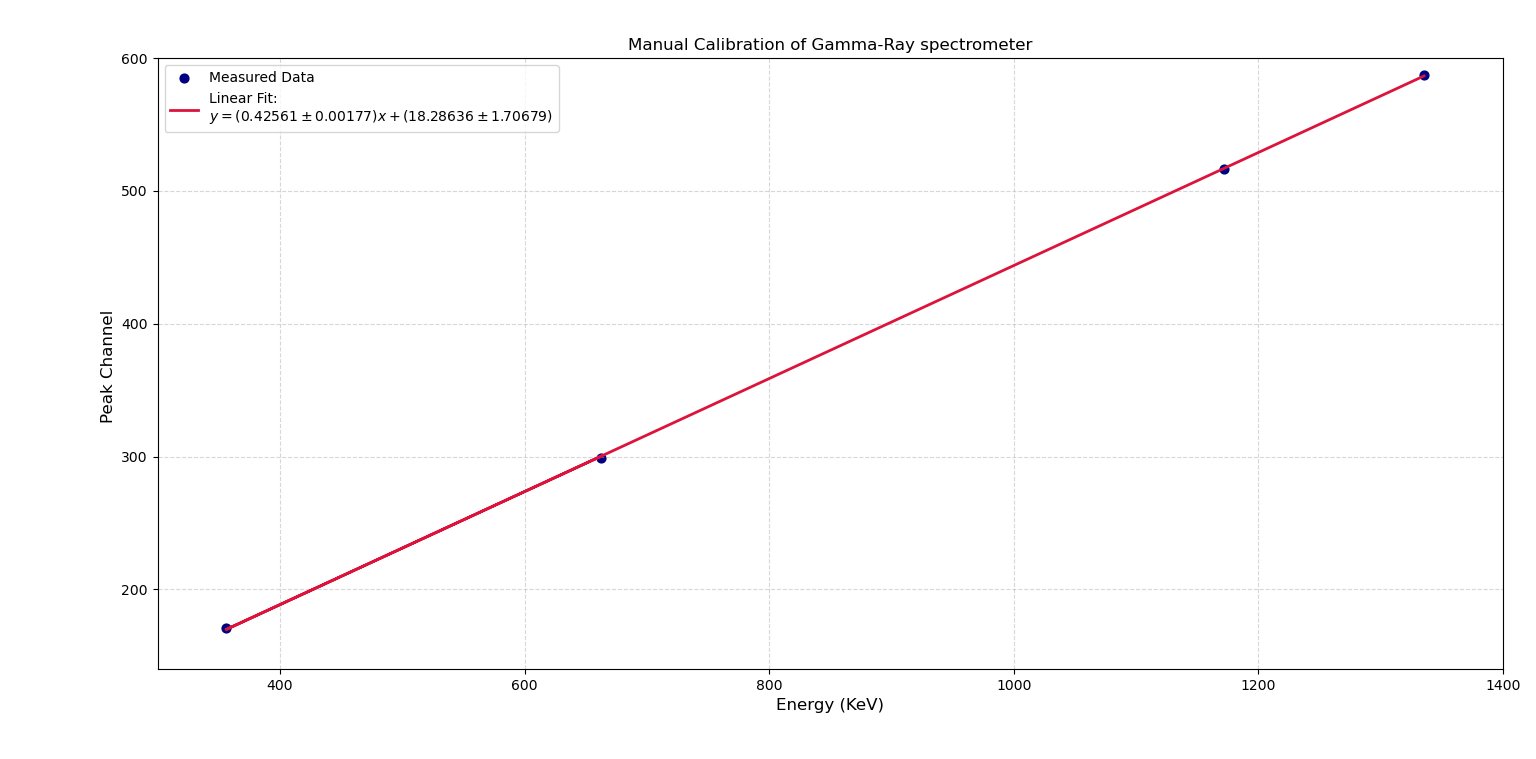
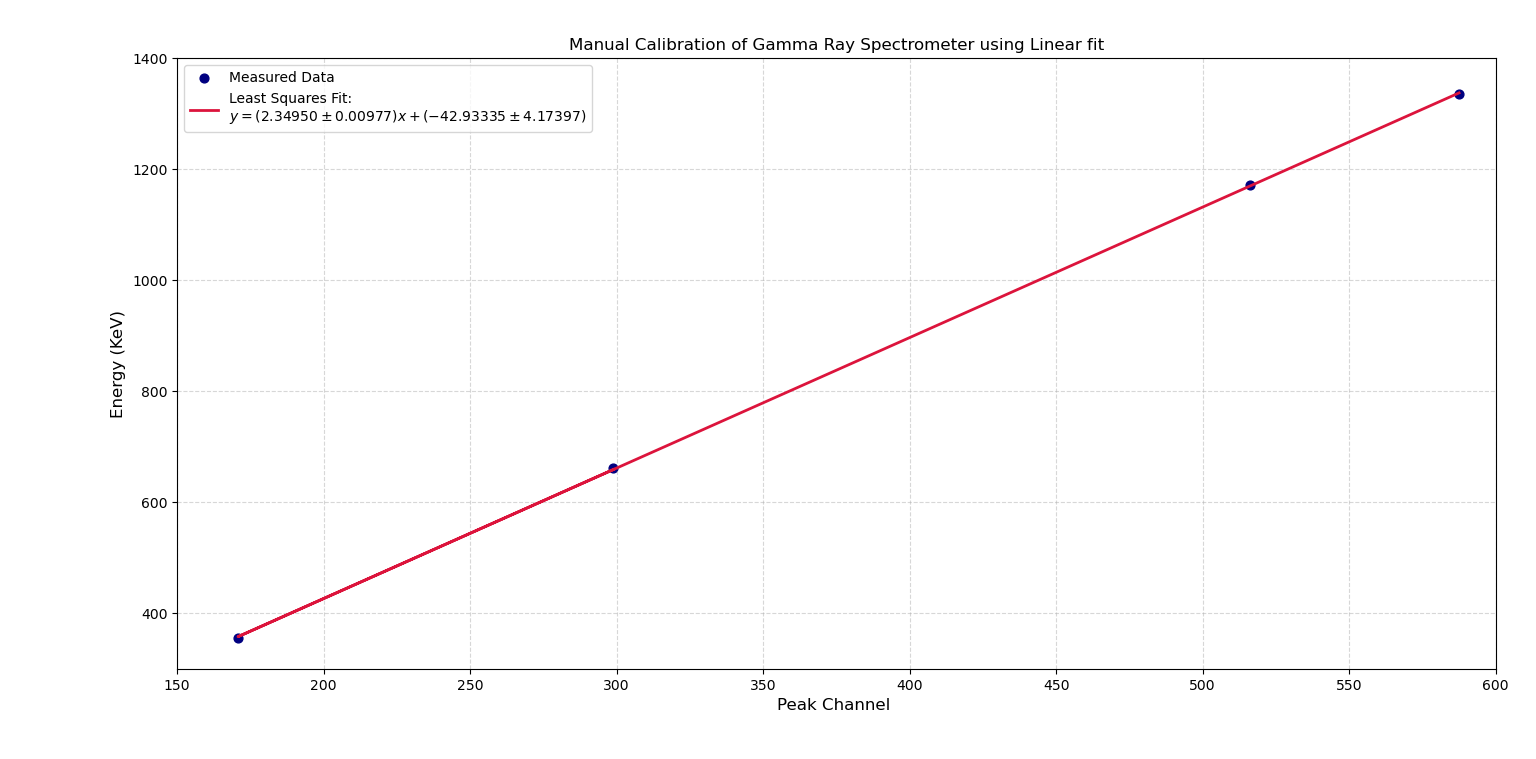
update figures

diff --git a/3. Gamma Ray Spectroscopy (SCA and MCA)/Manual Calibration.py b/3. Gamma Ray Spectroscopy (SCA and MCA)/Manual Calibration.py
@@ -3,8 +3,8 @@ import matplotlib.pyplot as plt
 from prettytable import PrettyTable
 
 # --- Input Data ---
-x = np.array([662.399,355.829,1171.402,1335.363])
-y = np.array([298.9051,170.7242,516.2521,587.5273])
+y = np.array([662.399,355.829,1171.402,1335.363])
+x = np.array([298.9051,170.7242,516.2521,587.5273])
 n = len(x)
 
 # --- Data Table ---
